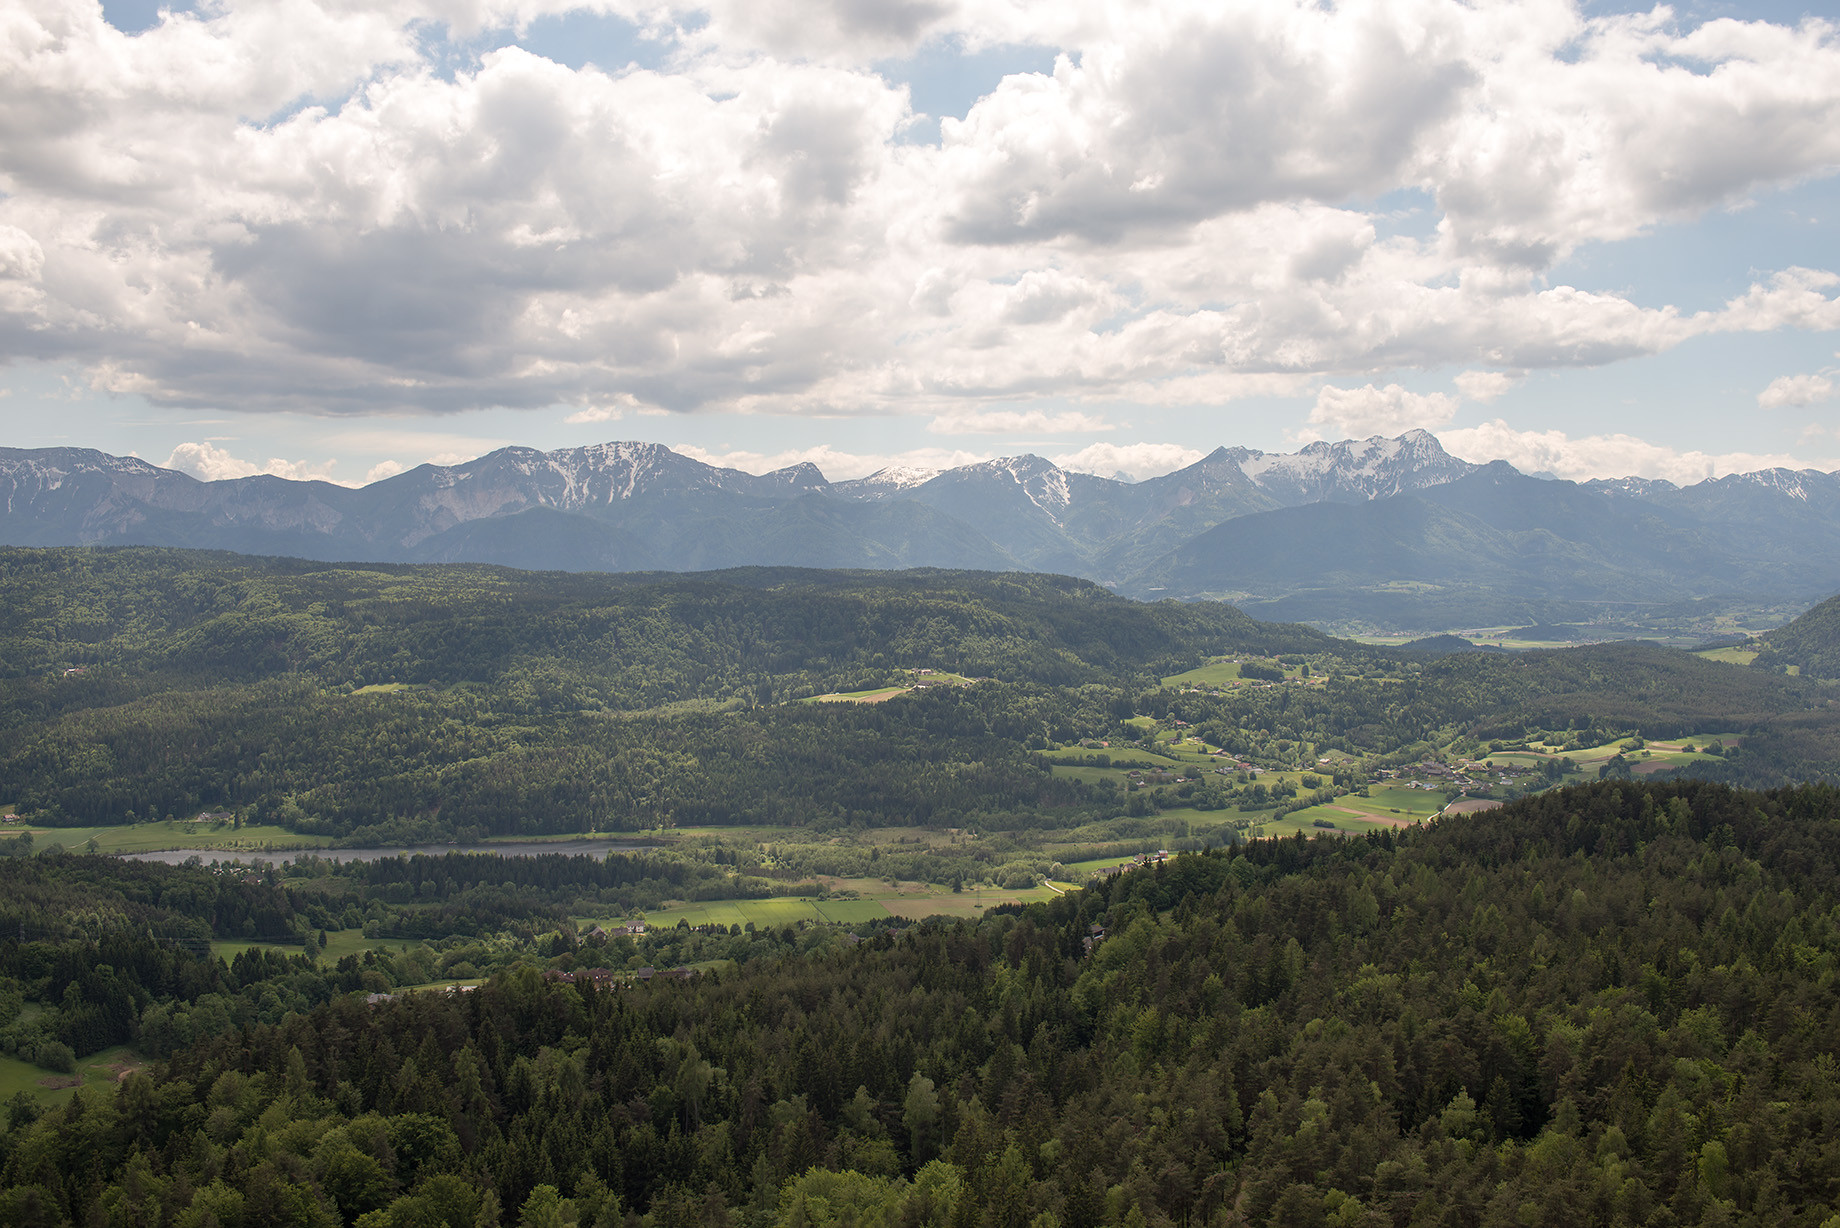
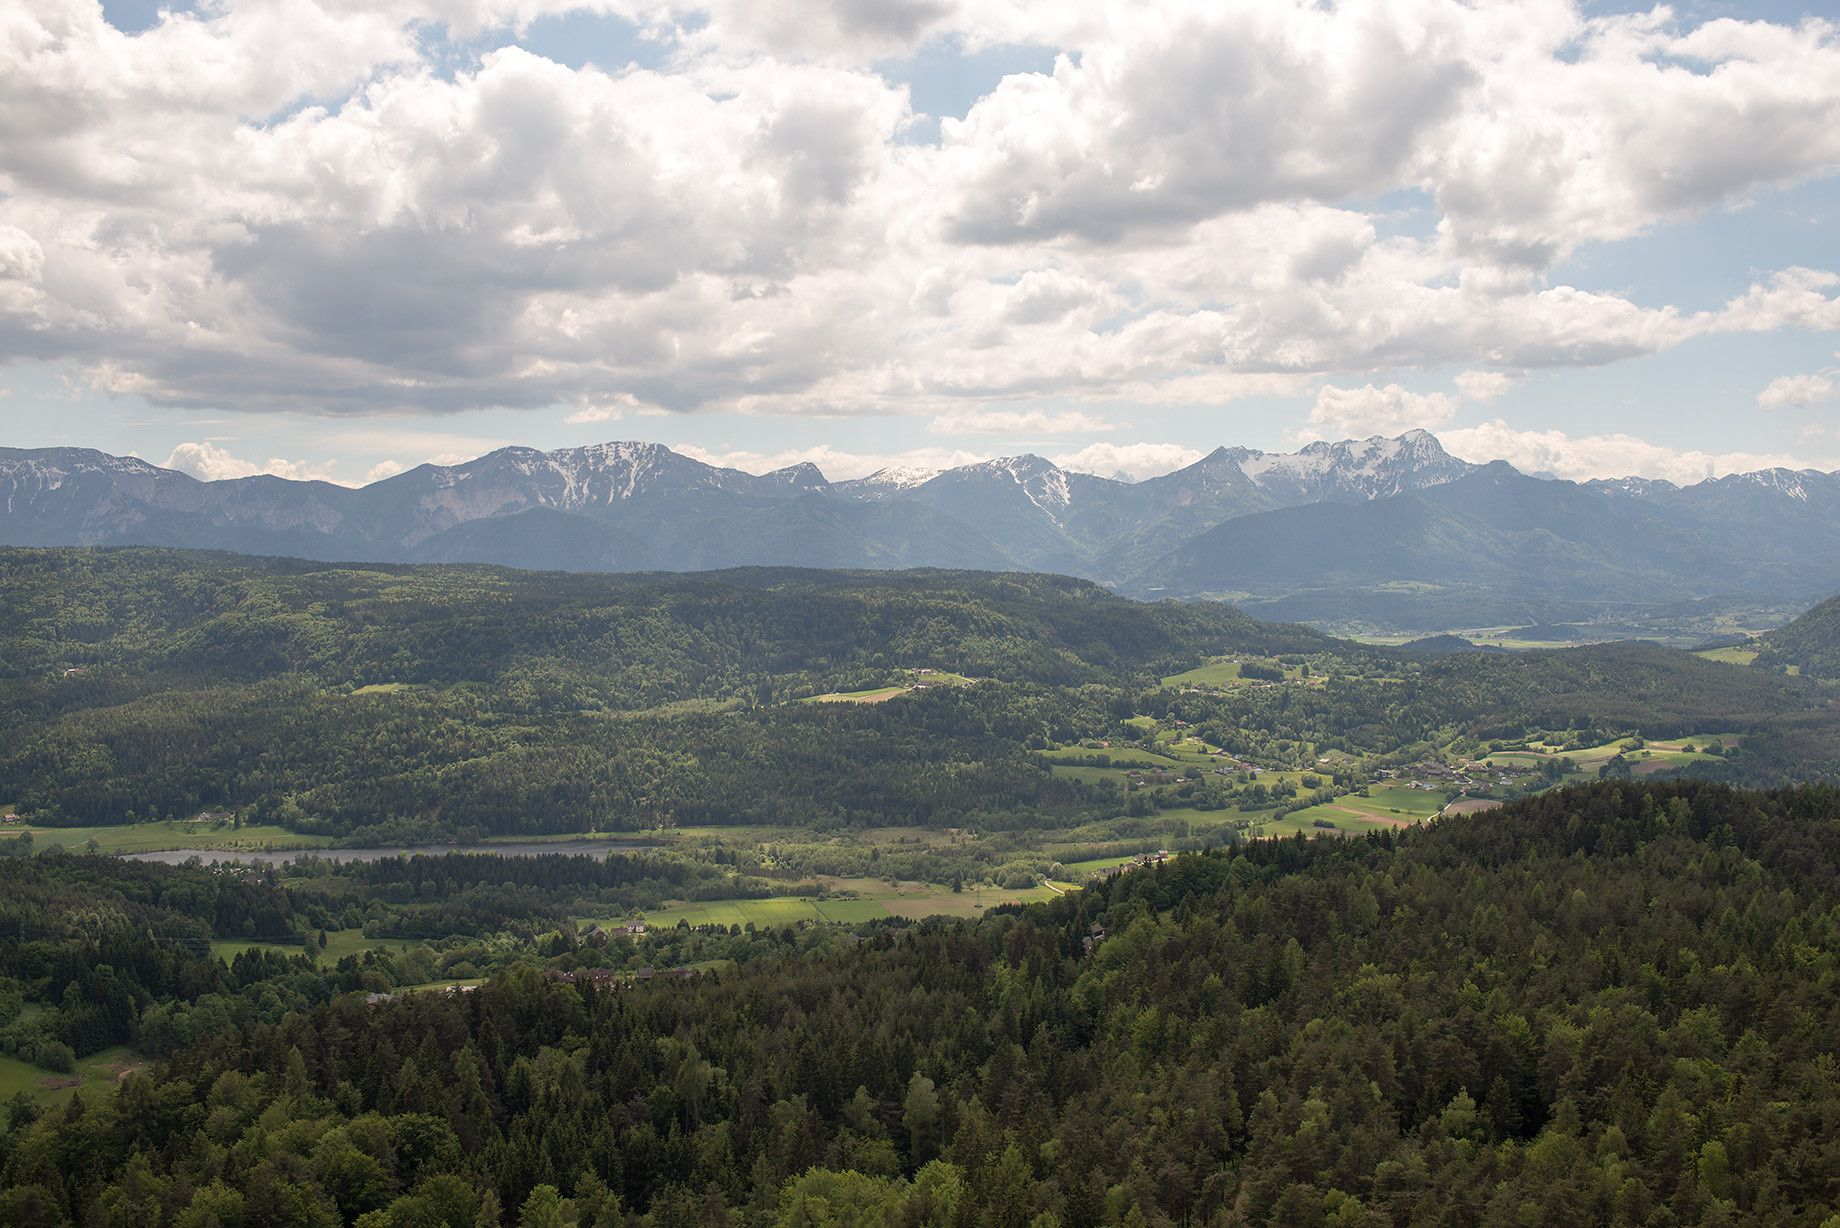
Shrinking masthead images from 76 MB to 5.5 MB without breaking image URLs
T016, using the owner's option B: published image URLs are never
removed.
- 7 JPEGs re-encoded in place (same names).
- 3 photo PNGs (hawaii, london-alley, london-view) get new .jpg
  versions that the pages now use. Each .png is replaced with a small
  fallback (<= 1024px, 256 colors) so hotlinks keep working.
  santa-cruz.png (unused) is shrunk the same way.
- Everything is converted to sRGB first (the iPhone PNGs were Apple
  wide-color and festival.jpg was Adobe RGB), resized to <= 1920px,
  saved as optimized progressive JPEG <= ~400 KB, with camera metadata
  (EXIF/XMP) stripped. No GPS data was present.

Side-by-side checks at full size show matching color and no visible
artifacts. In the local preview, About goes 15.1 -> 1.9 MB (LCP 80.9 ->
11.0 s) and Archive 13.8 -> 0.9 MB (LCP 74.4 -> 6.6 s). All 14 live
masthead URLs still resolve.

Also: AGENTS.md documents the image policy. The plan ticks T016 and
T029 (token deleted), records T068's DNS change (certificate pending),
and records the T045 decision (Giscus, export Disqus first).

Changed region(s): [[0.7745, 0.6189, 0.8054, 0.6498]]

diff --git a/docs/00-REVIVAL.md b/docs/00-REVIVAL.md
@@ -190,6 +190,7 @@ are in the build. A pull request can no longer publish to the live site.
   - _Done 2026-10-05: PR #24 merged, publish run 37254189282 (`master` `0e0b953`) changed only `A .nojekyll` and the `feed.xml` timestamp. `tags/.NET.html` returns **200**, listing its 2 posts. The full sweep returned **260 × 200 and 12 × 404** (drafts). 14 of 15 sample live files were byte-identical before and after. `CNAME` now serves its 19-byte content instead of a 404 page (harmless). The Pages build took **31.7 s**, down from 47–48 s._
 - [ ] T068 [BUG] `https://mikemcgarr.com` (bare domain, HTTPS) fails with a certificate mismatch. Its DNS A records point to `192.30.252.153`/`.154`, GitHub Pages addresses retired in 2018, which present a `*.github.com` certificate. GitHub's certificate covers only `www.mikemcgarr.com`. **Owner action at the domain registrar:** point `@` A records to `185.199.108.153`, `185.199.109.153`, `185.199.110.153`, `185.199.111.153` (optionally AAAA `2606:50c0:8000::153` … `8003::153`), and keep `www` CNAME → `jmcgarr.github.io`. If GitHub doesn't issue a certificate covering both names, remove and re-add the custom domain under Settings → Pages. Also consider verifying the domain in GitHub to prevent takeover (DNS)
   - **Test:** `dig +short mikemcgarr.com A` lists only `185.199.108-111.153`. `curl -sI https://mikemcgarr.com/` returns `301` to `https://www.mikemcgarr.com/` with no certificate error. `gh api repos/jmcgarr/jmcgarr.github.io/pages --jq '.https_certificate.domains'` includes both names. Then re-submit the sitemap for T007.
+  - _2026-10-05: the owner updated the A records (TTL 1 h). Verified: GoDaddy's nameservers and Google/Cloudflare/Quad9/OpenDNS all return only `185.199.108–111.153`, and `http://mikemcgarr.com` redirects to `https://www.mikemcgarr.com/` from the new servers. **Waiting on GitHub** to issue a certificate covering the bare domain (usually within hours, up to about a day). If it hasn't by 2026-10-06, remove and re-add the custom domain in Settings → Pages (this briefly drops `www` while `CNAME` is re-committed). **Remind the owner** about optional GitHub domain verification when this closes._
 
 ### Improvements
 
@@ -218,14 +219,15 @@ baseline pages. An offline link check finds no missing assets.
 
 ### Bugs
 
-- [ ] T016 [BUG] Re-encode the oversized masthead backgrounds. Pages currently download 13–16 MB hero images: `hawaii.png`, `london-alley.png`, `london-view.png`, `Los-Gatos_02.jpg`, plus anything else over 500 KB. Target ≤ 1920px wide, JPEG or WebP, ≤ 400 KB. If an extension changes, update the `masthead=` front matter and `archive.ftl` (`src/jbake/assets/img/masthead/`)
+- [x] T016 [BUG] Re-encode the oversized masthead backgrounds. Pages currently download 13–16 MB hero images: `hawaii.png`, `london-alley.png`, `london-view.png`, `Los-Gatos_02.jpg`, plus anything else over 500 KB. Target ≤ 1920px wide, JPEG or WebP, ≤ 400 KB. If an extension changes, update the `masthead=` front matter and `archive.ftl` (`src/jbake/assets/img/masthead/`)
   - **Test:** `find src/jbake/assets/img/masthead -size +500k` is empty. A side-by-side visual check in preview looks right. Lighthouse LCP on `/about.html` and `/archive.html` improves against `docs/baseline/metrics.md`.
-- [ ] T017 [P] [BUG] Re-encode oversized inline post images: `mike-oscon-1.png` (8 MB), `mike-oscoon-2.jpg` (3 MB), `three-horizons-lean-enterprise.png`, the `qcon-*.png` files, and anything else over 500 KB (`src/jbake/assets/img/`)
+  - _Done 2026-10-05 (`perf/T016-masthead-images`). **Image URL policy is option B (owner's choice):** published image URLs are never removed. A photo PNG gets a new `<name>.jpg` that pages use, and the old `<name>.png` is replaced with a small fallback (≤ 1024px, 256 colors) for anyone hotlinking it. JPEGs are re-encoded in place under the same name. Every image is converted to **sRGB** before its profile is dropped (the iPhone PNGs were Apple wide-color and `festival.jpg` was Adobe RGB), resized to ≤ 1920px wide, and saved as an optimized progressive JPEG (quality stepping down from 82 until ≤ 400 KB), with camera metadata (EXIF/XMP: make, model, timestamps) stripped. No GPS data was present. Results: `img/masthead/` **76 MB → 5.5 MB**. 0 files over 500 KB (`Los-Gatos_02.jpg` is 445 KB at q60; at full delivered size it looks the same as the original). New `hawaii.jpg`, `london-alley.jpg`, and `london-view.jpg` are used by `about.asciidoc`, the 2019 post, and `archive.ftl`. All 14 live masthead URLs still resolve. Side-by-side checks (full image and 100% crops) show matching color and no visible artifacts. Lighthouse in the local preview: **About 15.1 → 1.9 MB, LCP 80.9 → 11.0 s; Archive 13.8 → 0.9 MB, LCP 74.4 → 6.6 s** (the baseline was live, so compare weight and LCP, not scores; re-measure live after publish). About's heaviest file is now the inline `me_qcon_panel_sq.png` (770 KB), which is T017._
+- [ ] T017 [P] [BUG] _(Use T016's option B method: never remove a published image URL.)_ Re-encode oversized inline post images, including `me_qcon_panel_sq.png` (770 KB, on About): `mike-oscon-1.png` (8 MB), `mike-oscoon-2.jpg` (3 MB), `three-horizons-lean-enterprise.png`, the `qcon-*.png` files, and anything else over 500 KB (`src/jbake/assets/img/`)
   - **Test:** `find src/jbake/assets/img -maxdepth 1 -size +500k` is empty, or lists only exceptions you've documented. The affected posts render correctly in preview.
 
 ### Improvements
 
-- [ ] T018 [P] [IMP] Delete the ~24 unused images (~25 MB), for example `masthead/santa-cruz.png`, the unused `me_qcon_*.png` files, `bg-*.png`, `glyphicons-*`, and `webicon-*.svg` (`src/jbake/assets/img/`)
+- [ ] T018 [P] [IMP] _(Under option B, deleting a published image URL needs the owner's explicit approval. The default is to shrink unused images in place, as T016 did with `santa-cruz.png` (12.9 MB → 342 KB fallback), unless the owner approves removal.)_ Delete the ~24 unused images (~25 MB), for example `masthead/santa-cruz.png`, the unused `me_qcon_*.png` files, `bg-*.png`, `glyphicons-*`, and `webicon-*.svg` (`src/jbake/assets/img/`)
   - **Test:** Re-running the unused-image scan (every image basename grepped against content, templates, and CSS) returns nothing. `lychee --offline build/jbake` reports 0 missing local files.
 - [ ] T019 [P] [IMP] Cut Font Awesome (13 MB) down to `css/all.min.css` and `webfonts/`, or replace it with inline SVGs for the handful of icons in use (footer circles, Twitter, LinkedIn, GitHub, menu bars) (`src/jbake/assets/vendor/fontawesome-free/`)
   - **Test:** The footer and menu icons render in preview. `du -sh src/jbake/assets/vendor/fontawesome-free` is under 1 MB, or the directory is gone. Offline lychee is clean.
@@ -273,9 +275,9 @@ CI is green. Its output is identical to the pre-upgrade build, and deploying nee
   - **Test:** The deploy job succeeds. `gh api repos/jmcgarr/jmcgarr.github.io/pages --jq .build_type` returns `workflow`. The live site serves the new build and `check-urls.sh` reports 0 missing against the live URLs. **Re-run the T004 docs guard**: the uploaded artifact has no `docs/`. **Keep T009's exclusion:** `build/jbake` contains drafts, so upload a copy without `**/*-draft.html`, and point the drafts check at the artifact. The artifact must have no `-draft.html`.
 - [ ] T028 [IMP] Remove the `org.ajoberstar.git-publish` plugin and its `gitPublish` block now that Actions deploys the site (`build.gradle`)
   - **Test:** `./gradlew tasks --all | grep -i gitPublish` returns nothing. A push to `source` still deploys, and still without drafts (T009's exclusion lives in `gitPublish.contents` today, so move it to T027's artifact step first).
-- [ ] T029 [IMP] Delete the `GRGIT_USER` and `GRGIT_PASS` repo secrets and revoke the personal access token behind them (GitHub settings)
+- [x] T029 [IMP] Delete the `GRGIT_USER` and `GRGIT_PASS` repo secrets and revoke the personal access token behind them (GitHub settings)
   - **Test:** `gh secret list` no longer shows them. The next deploy still succeeds.
-  - _Note (2026-10-04): the workflow stopped using these secrets in T066, and the token had already expired. This can be done as soon as T066's publish succeeds, ahead of the rest of M3. **2026-10-04: both secrets deleted** with the owner's approval (`gh secret list` is empty). The next deploy succeeded without them (T009 merge, run 37250459609). **Still to do:** the owner deletes the expired token in GitHub settings, then tick._
+  - _Note (2026-10-04): the workflow stopped using these secrets in T066, and the token had already expired. This can be done as soon as T066's publish succeeds, ahead of the rest of M3. **2026-10-04: both secrets deleted** with the owner's approval (`gh secret list` is empty). The next deploy succeeded without them (T009 merge, run 37250459609). **2026-10-05: the owner deleted the expired token.** Done._
 - [ ] T030 [P] [IMP] Add Dependabot for `github-actions` and `gradle` (`.github/dependabot.yml`)
   - **Test:** The Insights → Dependency graph → Dependabot tab shows both ecosystems being checked.
 - [ ] T031 [P] [IMP] Add CI quality gates on every PR: `xmllint` on the feed and sitemap, `lychee --offline build/jbake`, `scripts/check-urls.sh`, and `scripts/check-docs-not-published.sh` (`.github/workflows/gradle.yml`)
@@ -360,7 +362,7 @@ Accessibility ≥ 95. Social preview validators show a title, description, and i
   - **Test:** `git ls-files 'src/jbake/assets/css/clean-blog*'` returns nothing. `./gradlew clean bake` produces `build/jbake/css/clean-blog.css`. Screenshots of the four baseline pages before and after look the same. Changing one SCSS variable changes the rendered site.
 - [ ] T044 [P] [IMP] Make `index.ftl` iterate `published_posts` instead of `posts` with a status check and a manual break (`src/jbake/templates/index.ftl`)
   - **Test:** The home page shows the same 6 posts, in the same order, as the baseline live home page.
-- [ ] T045 [P] [IMP] Decide on comments: keep Disqus, switch to Giscus (GitHub Discussions), or remove them (`src/jbake/templates/post.ftl`). _2026-10-05: on the **live** site, the Disqus embed makes a post page load **164 requests from 46 third-party hosts**, most of them ad and data-sync trackers (Taboola, Criteo, DoubleClick, Amazon ads, Facebook, LinkedIn ads, Yahoo, The Trade Desk, LiveRamp, and others). Our own code loads none of these. This works against the cookie-free analytics choice (T013), so consider pulling it forward, and export the existing Disqus threads first if any are worth keeping._
+- [ ] T045 [P] [IMP] **Decided 2026-10-05: switch to Giscus, and export the existing Disqus comments first** (owner). Was: decide on comments: keep Disqus, switch to Giscus (GitHub Discussions), or remove them (`src/jbake/templates/post.ftl`). _2026-10-05: on the **live** site, the Disqus embed makes a post page load **164 requests from 46 third-party hosts**, most of them ad and data-sync trackers (Taboola, Criteo, DoubleClick, Amazon ads, Facebook, LinkedIn ads, Yahoo, The Trade Desk, LiveRamp, and others). Our own code loads none of these. This works against the cookie-free analytics choice (T013), so consider pulling it forward, and export the existing Disqus threads first if any are worth keeping._
   - **Test:** If kept or replaced, comments load on a post in preview. If removed, `grep -r disqus build/jbake` returns nothing.
 - [ ] T046 [P] [IMP] Do an accessibility pass: alt text on images, contrast for `.photo-credit` (`#d2d1d1`), and heading order (`src/jbake/templates/`, `src/jbake/assets/css/extra.css`)
   - **Test:** Lighthouse Accessibility ≥ 95 on the four baseline pages.

diff --git a/AGENTS.md b/AGENTS.md
@@ -65,6 +65,11 @@ So all of the following **change or remove a published URL**, and each needs exp
 Changing a post's **format** (for example `.html` → `.md`) is safe *only if* the directory and base
 name stay the same, because the output is still `<name>.html`.
 
+**Images (owner's policy, "option B"):** never remove a published image URL. To shrink or convert an
+image, re-encode a JPEG in place under the same name. For a photo saved as PNG, add a new `<name>.jpg`,
+point the pages at it, and replace `<name>.png` with a small fallback copy. Convert to sRGB before
+dropping the color profile, and strip camera metadata. See T016 in the revival plan for the exact method.
+
 ### When a URL change is approved
 
 1. Leave a **redirect stub** at the old path: a small HTML page with `<meta http-equiv="refresh">` and `<link rel="canonical">` pointing at the new URL. (GitHub Pages has no server-side redirects.)

diff --git a/src/jbake/content/blog/relections-and-projections-2019.md b/src/jbake/content/blog/relections-and-projections-2019.md
@@ -4,7 +4,7 @@ type=post
 tags=general
 status=published
 summary=December is often a time for reflection. We look back on the year and reflect on what we've accomplished. I am no exception. As I look back on 2019, there are a few things that stand out.
-masthead=london-alley.png
+masthead=london-alley.jpg
 mastheadCredit=Me, an alley in London, March 2019
 ~~~~~~
 As 2019 comes to a close it's time to look back on the last year...as well as forward to the year to come. I will start with a look back on 2019, and then set some goals for the coming year.
